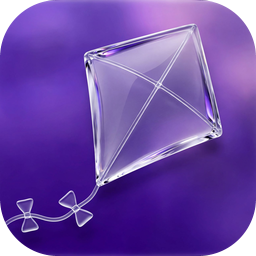
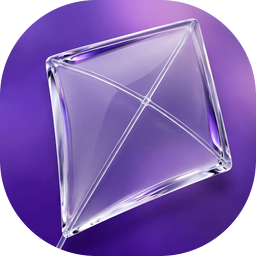
[phase-02][FE] The corner mark breathes: a tighter crop at 28 px, a gap below
User: the mark looked cramped and odd in the corner. kite-mark.png is
recut from the master closer around the glass kite, with the rail
tiles' corner radius; BrandMark is 28 px on the same axis and line, and
the nav column starts 12 px below the brand band.

diff --git a/launcher/qml/Components/SidebarNav.qml b/launcher/qml/Components/SidebarNav.qml
@@ -87,9 +87,11 @@ Rectangle {
     // (RecentItem.tileSize), the widest thing on the axis.
     readonly property int labelX: root.railAxis + Theme.control.heightSm / 2 + Theme.space.md
     readonly property int itemRadius: Theme.radius.lg
-    // The Kite mark: the size of the recent tiles below it
-    // (RecentItem.tileSize), so it reads as the rail's first tile.
-    readonly property int brandExtent: Theme.control.heightSm
+    // The Kite mark: a step under the recent tiles (RecentItem.tileSize), and
+    // the rail's items start a gap below its band, so the mark floats on the
+    // top bar's line instead of stacking on the first destination.
+    readonly property int brandExtent: Theme.control.heightSm - Theme.space.xs
+    readonly property int brandGap: Theme.space.md
 
     signal itemActivated(string id)
     signal recentActivated(string id)
@@ -103,7 +105,7 @@ Rectangle {
     // column overflowing -- on a short window the list gives way first.
     readonly property int recentShown: {
         var pitch = root.itemSize + column.spacing
-        var fixed = root.bandHeight + Theme.layout.barHeight
+        var fixed = root.bandHeight + root.brandGap + Theme.layout.barHeight
                   + (root.items.length + root.footerItems.length + 1) * pitch
                   + rule.height + rule.Layout.topMargin + rule.Layout.bottomMargin + column.spacing
                   + (root.collapsed ? Theme.control.heightSm + column.spacing : 0)
@@ -215,6 +217,7 @@ Rectangle {
         anchors.left: parent.left
         anchors.right: parent.right
         anchors.top: brandBand.bottom
+        anchors.topMargin: root.brandGap
         anchors.bottom: footBand.top
         anchors.leftMargin: root.inset
         anchors.rightMargin: root.inset

diff --git a/launcher/qml/Components/BrandMark.qml b/launcher/qml/Components/BrandMark.qml
@@ -5,8 +5,9 @@
 import QtQuick
 
 /*
- * Kite's own mark at any square size: the app icon's tile (the violet glass
- * kite on its rounded square), edge to edge in the box, so the box's middle
+ * Kite's own mark at any square size: the app icon's master cut close around
+ * the glass kite, with the rail tiles' corner (RecentItem's radius.md on its
+ * 32 px tile, in proportion), edge to edge in the box, so the box's middle
  * is the mark's. Set `size`; the caller positions it. The picture is 256 px,
  * scaled down once to the screen's own pixels (a PNG's sourceSize is not
  * scaled by the device ratio the way an SVG's is), so it stays crisp on
